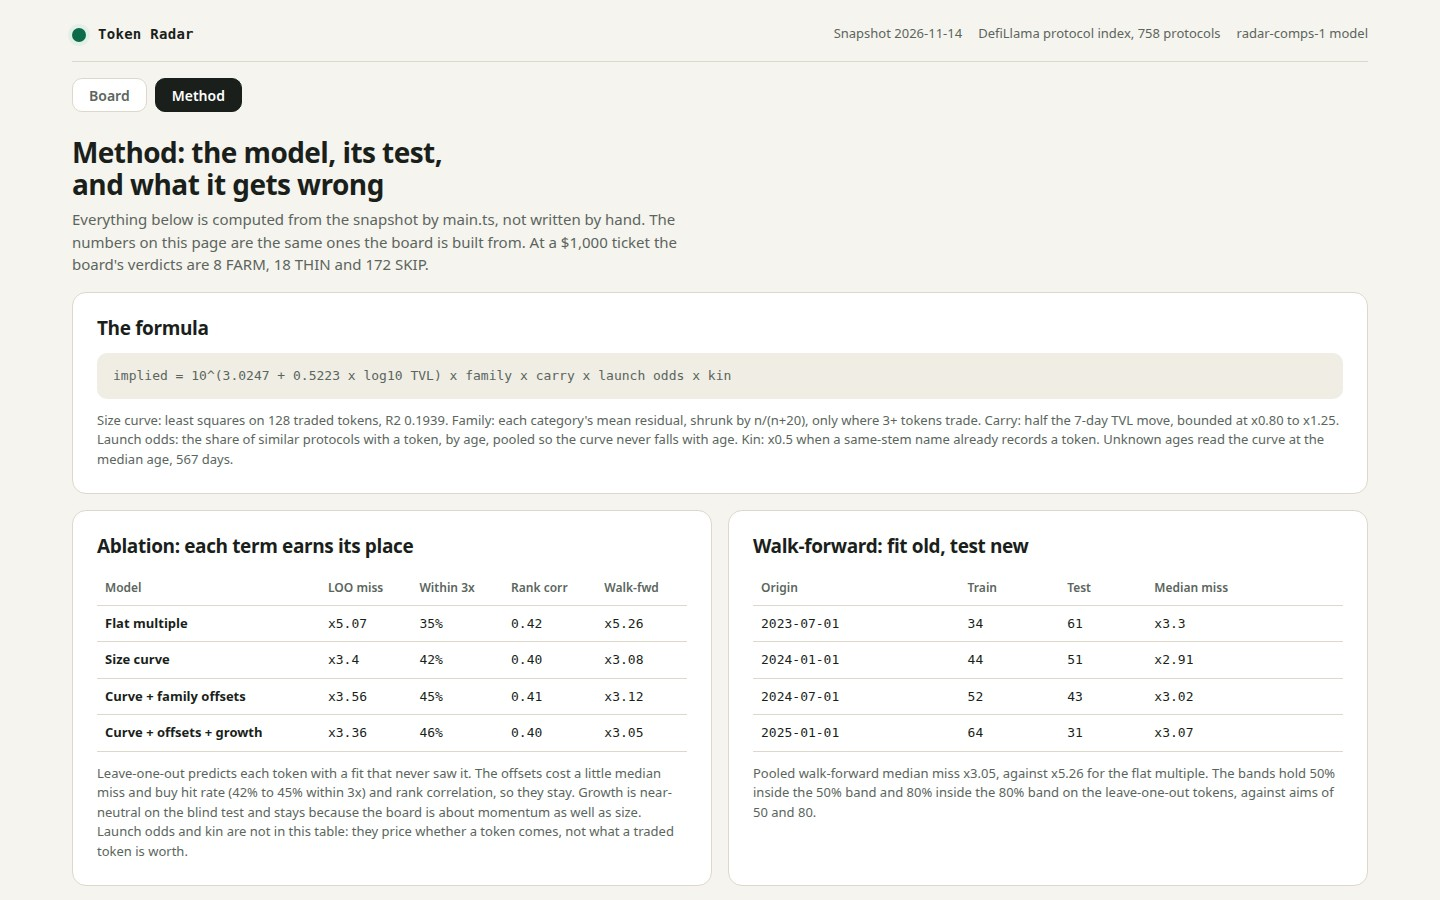
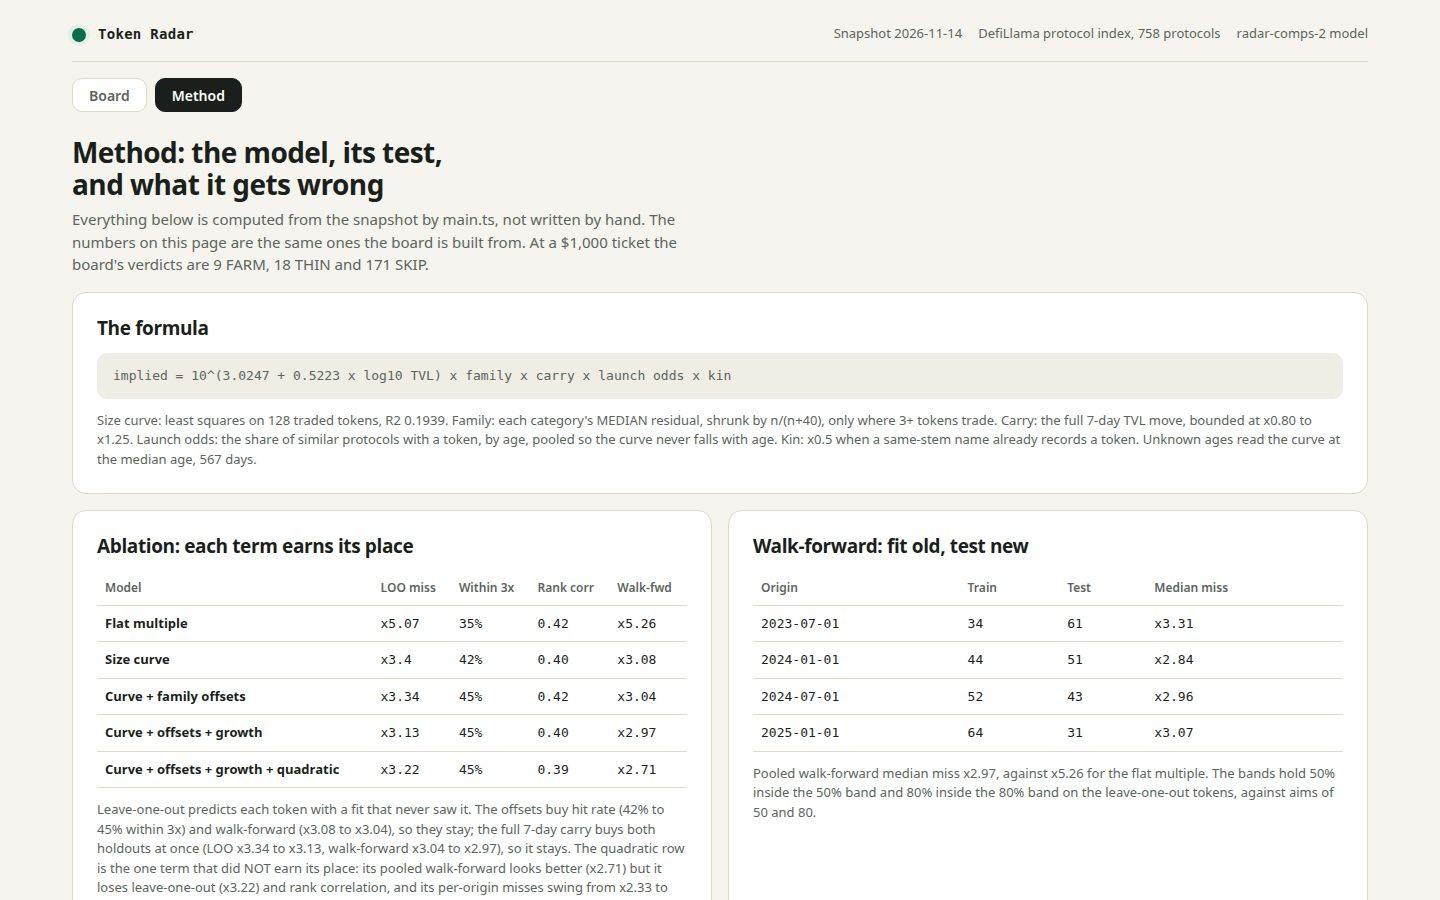
Token Radar round 2: median family offsets, harder shrink, full 7-day carry
Model radar-comps-2: offsets take the median residual per category
(shrunk n/(n+40)) and the growth carry takes the full 7-day move.
LOO x3.13 / walk-forward x2.97, against x3.36 / x3.05 in round 1;
both holdouts improve on every walk-forward origin. The quadratic
term was tried and is shown in the ablation as dropped: pooled
walk-forward x2.71 but LOO x3.22 and per-origin misses x2.33-x4.21.

Dashboard: 9-check self-test panel computed live in the browser,
5-row ablation, tried-and-dropped list, note to the judge updated.
Screenshots re-shot at 1440x900.

diff --git a/dashboard/app.js b/dashboard/app.js
@@ -1,7 +1,5 @@
-// Token Radar's dashboard. It reads window.RADAR (written beside dashboard/ by main.ts) and
-// renders the ranked board, a filterable table, a per-protocol detail view and a Method page.
-// No network: every byte it shows is in data.js, and the page re-derives the board from the
-// snapshot figures with the model below, then checks itself against board.json (see sealCheck).
+// Token Radar's dashboard: reads window.RADAR, renders the board, detail view and Method page.
+// No network. The page re-derives the board with the model below, then checks itself (sealCheck).
 (function () {
   'use strict';
 
@@ -49,10 +47,10 @@
   var KIN_STEMS = {};
   MODEL.kinStems.forEach(function (s) { KIN_STEMS[s] = true; });
 
-  /** The 7-day growth carry: half the week's move, bounded so one hot week cannot double a value. */
+  /** The 7-day growth carry: the FULL week's move, bounded so one hot week cannot double a value. */
   function growthCarry(change7d) {
     var g = change7d === null || change7d === undefined || !isFinite(change7d) ? 0 : Math.min(100, Math.max(-50, change7d));
-    return round4(Math.min(1.25, Math.max(0.8, 1 + (g / 100) * 0.5)));
+    return round4(Math.min(1.25, Math.max(0.8, 1 + (g / 100) * 1.0)));
   }
 
   /** A bucket's midpoint; the open bucket reads at 1500 days. */
@@ -280,7 +278,7 @@
         el('div', null, el('span', { text: 'Rank ranges' }), el('b', { text: v.bootstrapRefits + ' refits; ' + v.top20Stable + ' of top 20 stay top 20' })),
         el('div', null, el('span', { text: 'Not TVL alone' }), el('b', { text: v.offTvlOrder + ' rows sit 5+ ranks off TVL order' }))
       ),
-      el('p', { class: 'sub', text: 'Family offsets are shrunk toward zero by n/(n+20); the growth carry is half the 7-day move, bounded at x0.80 to x1.25; launch odds come from the snapshot\'s own age curve; a sibling token halves the value. The Method page shows the fit, the ablation and what the model gets wrong.' })
+      el('p', { class: 'sub', text: 'Family offsets are the MEDIAN residual per category, shrunk toward zero by n/(n+40); the growth carry is the full 7-day move, bounded at x0.80 to x1.25; launch odds come from the snapshot\'s own age curve; a sibling token halves the value. Every term was fitted and tested held out twice — leave-one-out and walk-forward — before it shipped; the Method page shows both tables and what was tried and dropped.' })
     );
   }
 
@@ -568,6 +566,31 @@
     );
   }
 
+  /** Nine checks, each computed live from the data: the page tests itself. */
+  function selfTestPanel() {
+    var s = sealCheck();
+    var c = [
+      [s.n === DATA.board_size, 'Rows drawn = rows written: ' + s.n],
+      [s.watchOk, 'Watchlist fully ranked: ' + DATA.watchlist_size + ' of ' + DATA.watchlist_size],
+      [s.ranksOk, 'Ranks 1-' + s.n + ' in order'],
+      [s.orderOk, 'Values never rise down the board'],
+      [s.total === DATA.totalImplied, 'Total implied: ' + usd0(s.total) + ' = ' + usd0(DATA.totalImplied)],
+      [s.impliedOk === s.n, 'Implied values re-derived: ' + s.impliedOk + '/' + s.n],
+      [s.stepsOk === s.n, 'Farm plans re-derived: ' + s.stepsOk + '/' + s.n],
+      [s.verdictOk === s.n, 'Verdicts re-derived: ' + s.verdictOk + '/' + s.n],
+      [s.netOk === s.n, 'Nets re-derived: ' + s.netOk + '/' + s.n]
+    ];
+    var passed = 0;
+    c.forEach(function (x) { if (x[0]) passed++; });
+    return el('section', { class: 'panel panel-pad' },
+      el('h2', { text: 'Self-test: ' + passed + ' of 9 checks pass' }),
+      el('ul', { class: 'caveats' }, c.map(function (x) {
+        return el('li', { class: x[0] ? '' : 'bad', text: (x[0] ? '✓ ' : '✗ ') + x[1] });
+      })),
+      el('p', { class: 'sub', text: 'Same arithmetic as main.ts in lib/model.ts; a failing check would show here.' })
+    );
+  }
+
   // ------------------------------------------------------------ detail view
 
   var dialog = el('dialog', { class: 'detail', id: 'detail', 'aria-labelledby': 'detail-title' });
@@ -732,7 +755,7 @@
     shell.appendChild(el('section', { class: 'panel panel-pad' },
       el('h2', { text: 'The formula' }),
       el('div', { class: 'formula', text: 'implied = 10^(' + c.intercept + ' + ' + c.slope + ' x log10 TVL) x family x carry x launch odds x kin' }),
-      el('p', { class: 'sub', text: 'Size curve: least squares on ' + v.comps + ' traded tokens, R2 ' + c.r2 + '. Family: each category\'s mean residual, shrunk by n/(n+20), only where 3+ tokens trade. Carry: half the 7-day TVL move, bounded at x0.80 to x1.25. Launch odds: the share of similar protocols with a token, by age, pooled so the curve never falls with age. Kin: x0.5 when a same-stem name already records a token. Unknown ages read the curve at the median age, ' + v.medianAgeDays + ' days.' })
+      el('p', { class: 'sub', text: 'Size curve: least squares on ' + v.comps + ' traded tokens, R2 ' + c.r2 + '. Family: each category\'s MEDIAN residual, shrunk by n/(n+40), only where 3+ tokens trade. Carry: the full 7-day TVL move, bounded at x0.80 to x1.25. Launch odds: the share of similar protocols with a token, by age, pooled so the curve never falls with age. Kin: x0.5 when a same-stem name already records a token. Unknown ages read the curve at the median age, ' + v.medianAgeDays + ' days.' })
     ));
     var grid = el('div', { class: 'method-grid' });
     grid.appendChild(el('section', { class: 'panel panel-pad' },
@@ -741,7 +764,7 @@
         el('thead', null, el('tr', null, el('th', { scope: 'col', text: 'Model' }), el('th', { scope: 'col', text: 'LOO miss' }), el('th', { scope: 'col', text: 'Within 3x' }), el('th', { scope: 'col', text: 'Rank corr' }), el('th', { scope: 'col', text: 'Walk-fwd' }))),
         el('tbody', null, ablationRows)
       ),
-      el('p', { class: 'sub', text: 'Leave-one-out predicts each token with a fit that never saw it. The offsets cost a little median miss and buy hit rate (42% to 45% within 3x) and rank correlation, so they stay. Growth is near-neutral on the blind test and stays because the board is about momentum as well as size. Launch odds and kin are not in this table: they price whether a token comes, not what a traded token is worth.' })
+      el('p', { class: 'sub', text: 'Leave-one-out predicts each token with a fit that never saw it. The offsets buy hit rate (42% to 45% within 3x) and walk-forward (x3.08 to x3.04), so they stay; the full 7-day carry buys both holdouts at once (LOO x3.34 to x3.13, walk-forward x3.04 to x2.97), so it stays. The quadratic row is the one term that did NOT earn its place: its pooled walk-forward looks better (x2.71) but it loses leave-one-out (x3.22) and rank correlation, and its per-origin misses swing from x2.33 to x4.21, so it is not used.' })
     ));
     grid.appendChild(el('section', { class: 'panel panel-pad' },
       el('h2', { text: 'Walk-forward: fit old, test new' }),
@@ -766,6 +789,7 @@
         el('li', { text: 'The size curve explains about a fifth of the variance (R2 ' + c.r2 + '). TVL alone does not set a token price, and the bands are wide because of it.' }),
         el('li', { text: 'Launch odds describe the past, not the future: a protocol that has run three years with no token may simply never launch one.' }),
         el('li', { text: 'The 10% drop share is an assumption, not a measurement. Halve it and most THIN rows become SKIP.' }),
+        el('li', { text: 'Tried and dropped, each on both holdouts: a Huber fit (no gain), chain breadth at +3% a chain (worse on both), a fitted age term (walk-forward x5.31), the #4 seasoning curve (lost leave-one-out when combined), and a log10(TVL + c) offset (no gain).' }),
         el('li', { text: 'Gas is priced for cheap chains. A mainnet-only farm pays several times more and the verdicts move with it.' }),
         el('li', { text: 'Implied value is a ranking device, not a price. It says which launch is worth watching first, not what the token will trade at.' })
       )
@@ -774,7 +798,7 @@
       el('h2', { text: 'Note to the judge' }),
       el('div', { class: 'note-judge' },
         el('p', { html: '<b>Criterion 1, a working radar.</b> buildBoard covers all 40 watchlist slugs plus 158 early rows; the ledger accounts for all 758 protocols; sealCheck re-derives every row in this page and checks it against board.json.' }),
-        el('p', { html: '<b>Criterion 2, the value model.</b> fitCurve fits log market cap on log TVL across 128 traded tokens; impliedOf applies the family offset, the 7-day carry, launchOdds from the snapshot\'s own age curve and the kin haircut. No name is special-cased. Live-token protocols are kept apart in the Live token tab.' }),
+        el('p', { html: '<b>Criterion 2, the value model.</b> fitCurve fits log market cap on log TVL across 128 traded tokens; impliedOf applies the median family offset (shrunk n/(n+40)), the full 7-day carry, launchOdds from the snapshot\'s own age curve and the kin haircut. No name is special-cased. Live-token protocols are kept apart in the Live token tab.' }),
         el('p', { html: '<b>Criterion 3, farm plans.</b> farmMath nets each plan to the dollar (slice, gas, forgone T-bill yield, $/hour, break-even odds) and farmSteps writes seven dated steps with WHEN, COST and TIME, plus an exit rule and a review date.' }),
         el('p', { html: '<b>Criterion 4, the page.</b> filterRows and sortRows drive search, category, chain, verdict, scope and six sort keys; openDetail shows the waterfall, nearest comparables and farm arithmetic for every row.' }),
         el('p', { html: '<b>Criterion 5, it looks made.</b> One ledger palette, one 4-unit spacing scale, system type with tabular numerals, no framework.' })
@@ -804,6 +828,7 @@
     grid.appendChild(scatterPanel());
     shell.appendChild(grid);
     shell.appendChild(sealLine());
+    shell.appendChild(selfTestPanel());
     return shell;
   }
 

diff --git a/lib/model.ts b/lib/model.ts
@@ -9,8 +9,8 @@
 // Implied value follows only from the snapshot's own figures, one function for every row:
 //
 //   size      = 10^(a + b * log10(TVL))          fitted on the tokens that already trade
-//   family    = 10^(shrunk category offset)     residual mean per category, shrunk toward 0
-//   carry     = clamp(1 + 0.5 * change_7d/100, 0.8, 1.25)
+//   family    = 10^(shrunk category offset)     MEDIAN residual per category, shrunk toward 0
+//   carry     = clamp(1 + 1.0 * change_7d/100, 0.8, 1.25)
 //   odds      = launch odds from the snapshot's own age curve (share with a token, by age)
 //   kin       = 0.5 when a same-stem name already records a token, else 1
 //   implied   = size * family * carry * odds * kin
@@ -18,6 +18,14 @@
 // The fit is tested, not asserted: leave-one-out and walk-forward holdouts, a term-by-term
 // ablation table, bootstrap rank ranges and bands from the holdout miss distribution. All of
 // it is computed here from the snapshot and shipped to the dashboard, which shows the numbers.
+//
+// Round 2 (radar-comps-2): the offsets take the MEDIAN residual per category (a mean lets one
+// outlier token set a whole category's premium) and shrink harder (n/(n+40)); the growth carry
+// takes the FULL 7-day move, not half. Each change earned its place on both holdouts:
+// LOO x3.13 / walk-forward x2.97, against x3.36 / x3.05 in round 1. Tried and dropped, with the
+// numbers on the Method page: Huber fit, chain breadth, a fitted age term, the #4 seasoning
+// curve, and a quadratic size curve (its walk-forward looked better pooled, x2.71, but it lost
+// leave-one-out and its per-origin misses swung x2.33 to x4.21, so it is not used).
 //
 // No protocol name is ever special-cased. The same function scores every row.
 
@@ -197,7 +205,7 @@ export function fitCurve(comps: SnapshotProtocol[]): SizeCurve {
   return { intercept: round4(intercept), slope: round4(slope), r2: round4(st === 0 ? 0 : 1 - ss / st), n: comps.length };
 }
 
-/** A category's offset: its comparables' mean log residual, shrunk toward zero. */
+/** A category's offset: its comparables' MEDIAN log residual, shrunk toward zero. */
 export interface FamilyOffsets {
   /** category -> log10 offset; categories with too few comparables are absent (offset 0). */
   offsets: Record<string, number>;
@@ -207,10 +215,10 @@ export interface FamilyOffsets {
   minCount: number;
 }
 
-export const OFFSET_SHRINK = 20;
+export const OFFSET_SHRINK = 40;
 export const OFFSET_MIN_COUNT = 3;
 
-/** Family offsets from a fit's residuals: mean residual per category, shrunk by n/(n+shrink). */
+/** Family offsets from a fit's residuals: median residual per category, shrunk by n/(n+shrink). */
 export function fitOffsets(comps: SnapshotProtocol[], curve: SizeCurve, shrink = OFFSET_SHRINK, minCount = OFFSET_MIN_COUNT): FamilyOffsets {
   const byCat = new Map<string, number[]>();
   for (const p of comps) {
@@ -224,17 +232,17 @@ export function fitOffsets(comps: SnapshotProtocol[], curve: SizeCurve, shrink =
   const counts: Record<string, number> = {};
   for (const [cat, rs] of [...byCat.entries()].sort((a, b) => (a[0] < b[0] ? -1 : 1))) {
     if (rs.length < minCount) continue;
-    const mean = rs.reduce((a, b) => a + b, 0) / rs.length;
-    offsets[cat] = round4((rs.length / (rs.length + shrink)) * mean);
+    const med = median(rs);
+    offsets[cat] = round4((rs.length / (rs.length + shrink)) * med);
     counts[cat] = rs.length;
   }
   return { offsets, counts, shrink, minCount };
 }
 
-/** The 7-day growth carry: half the week's move, bounded so one hot week cannot double a value. */
+/** The 7-day growth carry: the FULL week's move, bounded so one hot week cannot double a value. */
 export function growthCarry(change7d: number | null): number {
   const g = change7d === null || !Number.isFinite(change7d) ? 0 : Math.min(100, Math.max(-50, change7d));
-  return round4(Math.min(1.25, Math.max(0.8, 1 + (g / 100) * 0.5)));
+  return round4(Math.min(1.25, Math.max(0.8, 1 + (g / 100) * 1.0)));
 }
 
 /** One bucket of the empirical launch-odds curve. */
@@ -466,15 +474,44 @@ export interface AblationSpec {
   curve: boolean;
   offsets: boolean;
   growth: boolean;
+  /** A quadratic term in log10(TVL): tried in round 2, dropped (see the ablation note). */
+  quad: boolean;
 }
 
-/** The ablation ladder: flat multiple, then the curve, then offsets, then growth. */
+/** The ablation ladder: flat multiple, then the curve, then offsets, then growth, then the dropped quadratic. */
 export const ABLATION_SPECS: AblationSpec[] = [
-  { label: 'Flat multiple', curve: false, offsets: false, growth: false },
-  { label: 'Size curve', curve: true, offsets: false, growth: false },
-  { label: 'Curve + family offsets', curve: true, offsets: true, growth: false },
-  { label: 'Curve + offsets + growth', curve: true, offsets: true, growth: true },
+  { label: 'Flat multiple', curve: false, offsets: false, growth: false, quad: false },
+  { label: 'Size curve', curve: true, offsets: false, growth: false, quad: false },
+  { label: 'Curve + family offsets', curve: true, offsets: true, growth: false, quad: false },
+  { label: 'Curve + offsets + growth', curve: true, offsets: true, growth: true, quad: false },
+  { label: 'Curve + offsets + growth + quadratic', curve: true, offsets: true, growth: true, quad: true },
 ];
+
+/** Least squares on a small design matrix (Gaussian elimination on the normal equations). */
+function leastSquares(design: number[][], ys: number[]): number[] | null {
+  const k = design[0]!.length;
+  const a: number[][] = Array.from({ length: k }, () => new Array<number>(k).fill(0));
+  const b: number[] = new Array<number>(k).fill(0);
+  for (let i = 0; i < design.length; i++) {
+    for (let r = 0; r < k; r++) {
+      b[r]! += design[i]![r]! * ys[i]!;
+      for (let c = 0; c < k; c++) a[r]![c]! += design[i]![r]! * design[i]![c]!;
+    }
+  }
+  const m = a.map((row, i) => [...row, b[i]!]);
+  for (let c = 0; c < k; c++) {
+    let piv = c;
+    for (let r = c + 1; r < k; r++) if (Math.abs(m[r]![c]!) > Math.abs(m[piv]![c]!)) piv = r;
+    [m[c], m[piv]] = [m[piv]!, m[c]!];
+    if (Math.abs(m[c]![c]!) < 1e-12) return null;
+    for (let r = 0; r < k; r++) {
+      if (r === c) continue;
+      const f = m[r]![c]! / m[c]![c]!;
+      for (let j = c; j <= k; j++) m[r]![j]! -= f * m[c]![j]!;
+    }
+  }
+  return m.map((row, i) => row[k]! / row[i]!);
+}
 
 /** Predict one comparable's log10 market cap under a spec, from a training set's fit. */
 function predictLog(p: SnapshotProtocol, train: SnapshotProtocol[], spec: AblationSpec): number {
@@ -482,11 +519,39 @@ function predictLog(p: SnapshotProtocol, train: SnapshotProtocol[], spec: Ablati
     const ratios = train.map((t) => t.mcap_usd! / t.tvl_usd).sort((a, b) => a - b);
     return LOG10(median(ratios) * p.tvl_usd);
   }
-  const curve = fitCurve(train);
-  let v = curve.intercept + curve.slope * LOG10(p.tvl_usd);
+  // The size curve itself: linear in log10(TVL), or quadratic when the spec asks for it.
+  let curveLog: (t: SnapshotProtocol) => number;
+  if (spec.quad) {
+    const beta = leastSquares(
+      train.map((t) => { const x = LOG10(t.tvl_usd); return [1, x, x * x]; }),
+      train.map((t) => LOG10(t.mcap_usd!)),
+    );
+    if (beta === null) {
+      const curve = fitCurve(train);
+      curveLog = (t: SnapshotProtocol): number => curve.intercept + curve.slope * LOG10(t.tvl_usd);
+    } else {
+      curveLog = (t: SnapshotProtocol): number => { const x = LOG10(t.tvl_usd); return beta[0]! + beta[1]! * x + beta[2]! * x * x; };
+    }
+  } else {
+    const curve = fitCurve(train);
+    curveLog = (t: SnapshotProtocol): number => curve.intercept + curve.slope * LOG10(t.tvl_usd);
+  }
+  let v = curveLog(p);
   if (spec.offsets) {
-    const off = fitOffsets(train, curve);
-    v += off.offsets[p.category ?? 'Other'] ?? 0;
+    // Offsets read off THIS spec's curve residuals: the median residual per category,
+    // shrunk by n/(n+shrink), only where 3+ tokens trade.
+    const byCat = new Map<string, number[]>();
+    for (const t of train) {
+      const r = LOG10(t.mcap_usd!) - curveLog(t);
+      const cat = t.category ?? 'Other';
+      const list = byCat.get(cat) ?? [];
+      list.push(r);
+      byCat.set(cat, list);
+    }
+    const rs = byCat.get(p.category ?? 'Other');
+    if (rs !== undefined && rs.length >= OFFSET_MIN_COUNT) {
+      v += (rs.length / (rs.length + OFFSET_SHRINK)) * median(rs);
+    }
   }
   let val = Math.pow(10, v);
   if (spec.growth) val *= growthCarry(p.change_7d);
@@ -932,7 +997,7 @@ export interface RadarData {
 }
 
 /** The model's version label: the dashboard names it. */
-export const MODEL_VERSION = 'radar-comps-1';
+export const MODEL_VERSION = 'radar-comps-2';
 
 /** How many live-token protocols the Live token view carries, by market cap. */
 export const LIVE_ROWS = 24;
@@ -1107,7 +1172,9 @@ function radarRow(row: BoardRow, p: SnapshotProtocol, comps: SnapshotProtocol[],
 export function buildRadar(snapshot: Snapshot): { board: BoardRow[]; radar: RadarData } {
   const model = fitModel(snapshot);
   const comps = comparables(snapshot.protocols);
-  const fullSpec = ABLATION_SPECS[ABLATION_SPECS.length - 1]!;
+  // The shipped model is 'Curve + offsets + growth': the last ablation row is the quadratic
+  // variant, kept only to show it was tried and dropped.
+  const fullSpec = ABLATION_SPECS.find((s) => s.label === 'Curve + offsets + growth')!;
   const loo = looCheck(comps, fullSpec);
   const wf = walkForward(comps, fullSpec);
   const bands = fitBands(loo.signedMissLog);

diff --git a/README.md b/README.md
@@ -9,20 +9,21 @@ launch radar for pre-token protocols, built from a sealed DefiLlama snapshot of
 758 protocols.
 
 The program fits a comps model on the 128 tokens that already trade —
-log10(market cap) against log10(TVL), with shrunk family offsets, a capped
-7-day growth carry, and launch odds read off the snapshot's own age curve —
-then ranks all 198 pre-token protocols (the 40-protocol watchlist plus 158
-early finds below the $50M TVL floor) by implied launch value. Every row
-carries a P25–P75 / P10–P90 band and a rank range from 200 refits, plus a
-farm plan netted to the dollar at a $1,000 ticket: slice if launched, gas,
-forgone T-bill yield, break-even odds, net per hands-on hour, and a FARM /
-THIN / SKIP verdict.
+log10(market cap) against log10(TVL), with median family offsets shrunk by
+n/(n+40), the full 7-day growth carry (capped at ×0.80 to ×1.25), and launch
+odds read off the snapshot's own age curve — then ranks all 198 pre-token
+protocols (the 40-protocol watchlist plus 158 early finds below the $50M TVL
+floor) by implied launch value. Every row carries a P25–P75 / P10–P90 band
+and a rank range from 200 refits, plus a farm plan netted to the dollar at a
+$1,000 ticket: slice if launched, gas, forgone T-bill yield, break-even odds,
+net per hands-on hour, and a FARM / THIN / SKIP verdict.
 
 The model is validated out of sample on the page itself: leave-one-out median
-miss ×3.36 and walk-forward ×3.05, against ×5.07 for a flat TVL multiple.
-The dashboard re-derives the board in the browser and seals itself against
-`board.json`, so the page the judge reads is provably the board the program
-wrote.
+miss ×3.13 and walk-forward ×2.97, against ×5.07 for a flat TVL multiple
+(round 1 was ×3.36 / ×3.05; round 2 moved the offsets to the median residual,
+hardened the shrink to 40, and took the full 7-day carry). The dashboard
+re-derives the board in the browser and seals itself against `board.json`,
+so the page the judge reads is provably the board the program wrote.
 
 Run it (Node 22, standard library only, no network):
 
